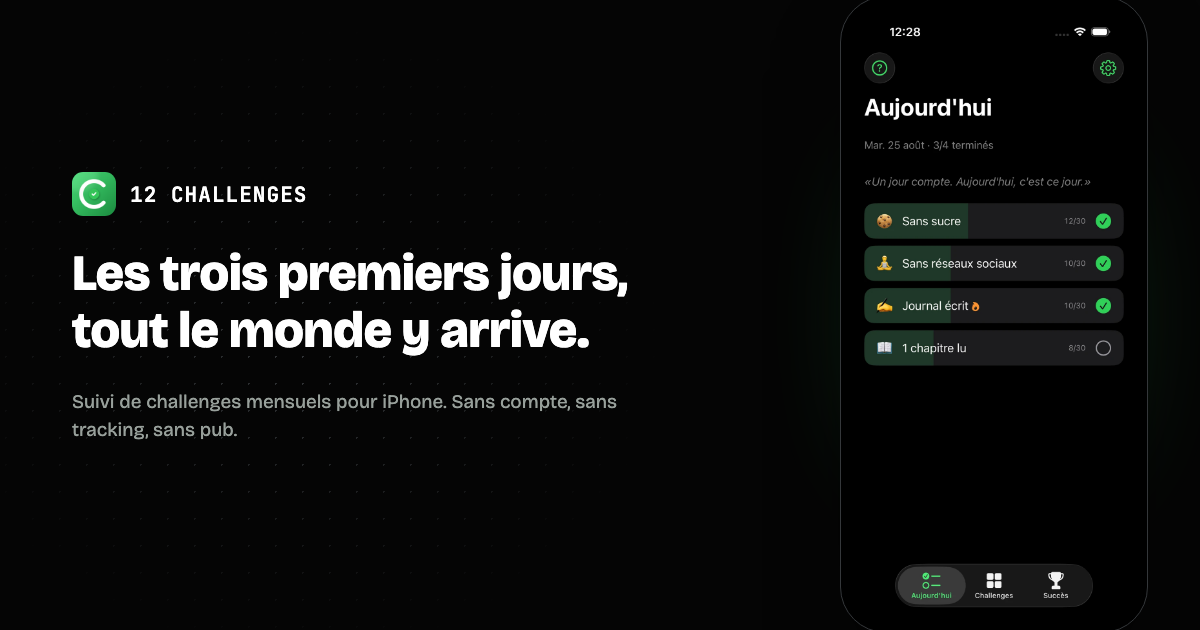
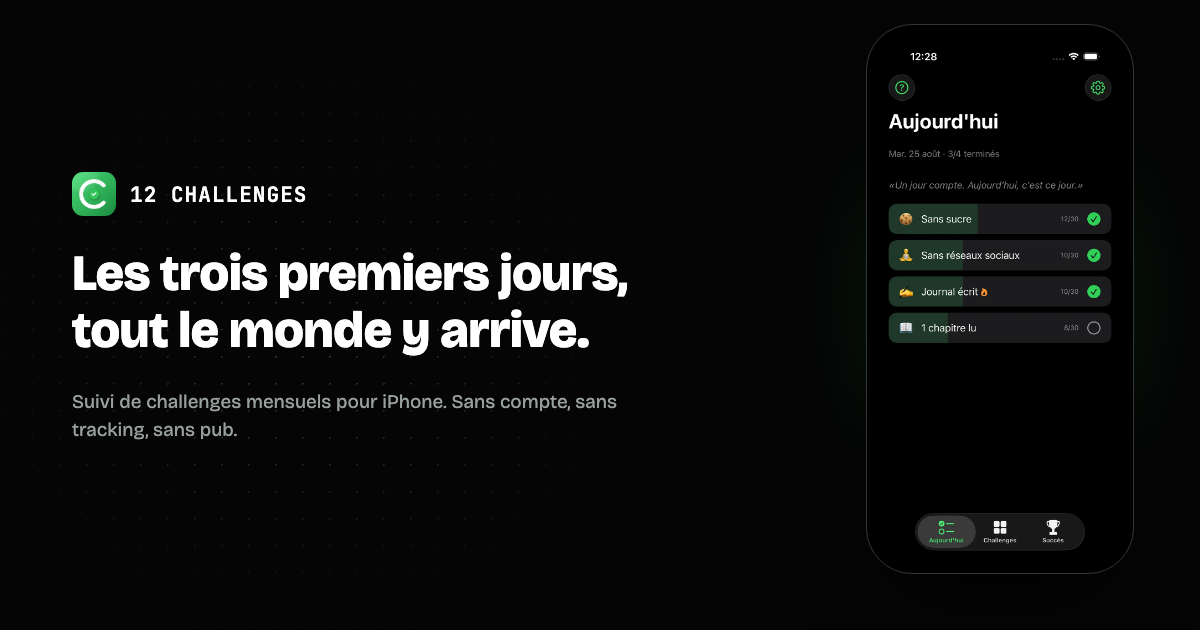
fix: OG-Bild Phone-Mockup verkleinert, damit nichts mehr abgeschnitten wirkt
In echten Link-Previews (z. B. WhatsApp/iMessage) stiess der Screen fast
an den unteren Bildrand. Phone-Wrap von 308px auf 268px verkleinert und
mit Rand oben/unten positioniert statt an den Kanten zu bluten.

diff --git a/scripts/og-image/template.html b/scripts/og-image/template.html
@@ -99,9 +99,9 @@
      Content is a real app screenshot, not a redrawn UI. --- */
   .phone-wrap {
     position: absolute;
-    right: 52px;
-    top: -4px;
-    width: 308px;
+    right: 66px;
+    top: 24px;
+    width: 268px;
   }
   .phone-wrap::before {
     content: "";
